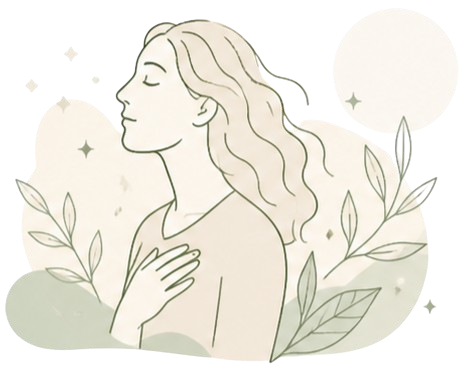
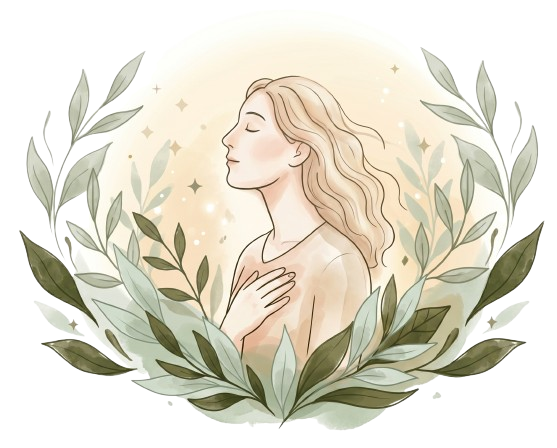
feat(hero): animações float/fade-up, altura fixa e ilustração atualizada
Adiciona keyframes float e fade-up com motion-safe para respeitar
preferência de movimento reduzido. Substitui altura vh por px fixos
(620/720px) para não escalar com zoom do browser. Atualiza ilustração
para .webp e remove .png legado.

diff --git a/src/components/sections/hero-section.tsx b/src/components/sections/hero-section.tsx
@@ -32,7 +32,7 @@ export function HeroSection() {
   return (
     <section
       aria-labelledby="hero-heading"
-      className="relative flex min-h-[72vh] items-center overflow-hidden bg-brand-ivory py-12 md:min-h-[88vh] md:py-20"
+      className="relative flex min-h-[620px] items-center overflow-hidden bg-brand-ivory py-16 md:min-h-[720px] md:py-24"
     >
       {/* background botanical — next/image com priority para ser candidato a LCP */}
       <Image
@@ -41,7 +41,7 @@ export function HeroSection() {
         fill
         priority
         fetchPriority="high"
-        quality={80}
+        quality={75}
         sizes="100vw"
         className="object-cover object-center opacity-15"
         aria-hidden="true"
@@ -79,39 +79,49 @@ export function HeroSection() {
 
       <PageContainer>
         <div className="relative z-10 grid items-center gap-10 md:grid-cols-2 lg:grid-cols-[1fr_1.25fr] lg:gap-14">
-          {/* coluna texto */}
+          {/* coluna texto — fade-up escalonado */}
           <div className="space-y-8">
-            <p className="text-sm font-medium uppercase tracking-widest text-muted-foreground">
+            <p
+              className="text-sm font-medium uppercase tracking-widest text-muted-foreground motion-safe:animate-fade-up"
+              style={{ animationDelay: '0ms' }}
+            >
               {siteConfig.role}
             </p>
 
             <h1
               id="hero-heading"
-              className="font-serif text-3xl font-bold leading-tight tracking-tight text-brand-forest md:text-[3.25rem] lg:text-[4.25rem]"
+              className="font-serif text-3xl font-bold leading-tight tracking-tight text-brand-forest motion-safe:animate-fade-up md:text-[3.25rem] lg:text-[4.25rem]"
+              style={{ animationDelay: '150ms' }}
             >
               Um espaço seguro para cuidar de você
             </h1>
 
-            <p className="text-lg leading-8 text-muted-foreground md:text-xl">
+            <p
+              className="text-lg leading-8 text-muted-foreground motion-safe:animate-fade-up md:text-xl"
+              style={{ animationDelay: '300ms' }}
+            >
               {siteConfig.description}
             </p>
 
-            <div className="flex flex-col gap-4 sm:flex-row sm:items-center">
+            <div
+              className="flex flex-col gap-4 sm:flex-row motion-safe:animate-fade-up"
+              style={{ animationDelay: '450ms' }}
+            >
               <WhatsAppButton
                 label="Agendar Primeira Consulta"
                 message="Olá, gostaria de agendar uma primeira consulta."
-                className="w-full justify-center sm:w-auto sm:justify-start"
+                className="flex-1 justify-center whitespace-nowrap"
               />
               <Link
                 href="/servicos"
-                className="btn-hero-secondary inline-flex w-full items-center justify-center rounded-lg border-2 border-brand-forest/65 bg-brand-ivory/90 px-7 py-3.5 text-sm font-semibold text-brand-forest focus:outline-none focus:ring-2 focus:ring-ring focus:ring-offset-2 sm:w-auto"
+                className="inline-flex flex-1 items-center justify-center whitespace-nowrap rounded-lg border-2 border-brand-forest/65 bg-brand-ivory/90 px-7 py-3.5 text-sm font-semibold text-brand-forest transition-colors hover:bg-brand-sand focus:outline-none focus:ring-2 focus:ring-ring focus:ring-offset-2"
               >
                 Conhecer os Serviços
               </Link>
             </div>
           </div>
 
-          {/* coluna ilustração + sparkles decorativos — oculta no mobile */}
+          {/* coluna ilustração — float suave */}
           <div className="relative hidden justify-center md:flex md:justify-end">
             {/* sparkles dourado-rosé ao redor da ilustração */}
             <Sparkle className="absolute left-[8%] top-[8%]"  size={14} color="#C98F86" opacity={0.60} />
@@ -128,7 +138,7 @@ export function HeroSection() {
               priority
               fetchPriority="high"
               sizes="(max-width: 1023px) 480px, 704px"
-              className="relative z-10 w-full max-w-[30rem] lg:max-w-[44rem] [filter:contrast(1.15)_brightness(0.93)_sepia(0.12)_saturate(1.05)]"
+              className="relative z-10 w-full max-w-[30rem] motion-safe:animate-float lg:max-w-[44rem] [filter:contrast(1.15)_brightness(0.93)_sepia(0.12)_saturate(1.05)]"
             />
           </div>
         </div>

diff --git a/src/app/globals.css b/src/app/globals.css
@@ -112,6 +112,30 @@
   --radius-md: calc(var(--radius) - 2px);
   --radius-lg: var(--radius);
   --radius-xl: calc(var(--radius) + 4px);
+
+  /* error — terracotta elegante (WCAG AA ~5.8:1 on white) */
+  --color-error-terracotta: #9B4E47;
+  --color-error-terracotta-ring: rgba(155, 78, 71, 0.12);
+
+  /* animations */
+  --animate-float: float 4s ease-in-out infinite;
+  --animate-fade-up: fade-up 0.7s ease-out both;
+  --animate-message-appear: message-appear 0.28s ease-out both;
+}
+
+@keyframes float {
+  0%, 100% { transform: translateY(0); }
+  50%       { transform: translateY(-8px); }
+}
+
+@keyframes fade-up {
+  from { opacity: 0; transform: translateY(18px); }
+  to   { opacity: 1; transform: translateY(0); }
+}
+
+@keyframes message-appear {
+  from { opacity: 0; transform: translateY(-5px); }
+  to   { opacity: 1; transform: translateY(0); }
 }
 
 /* ─── Base styles ─── */
